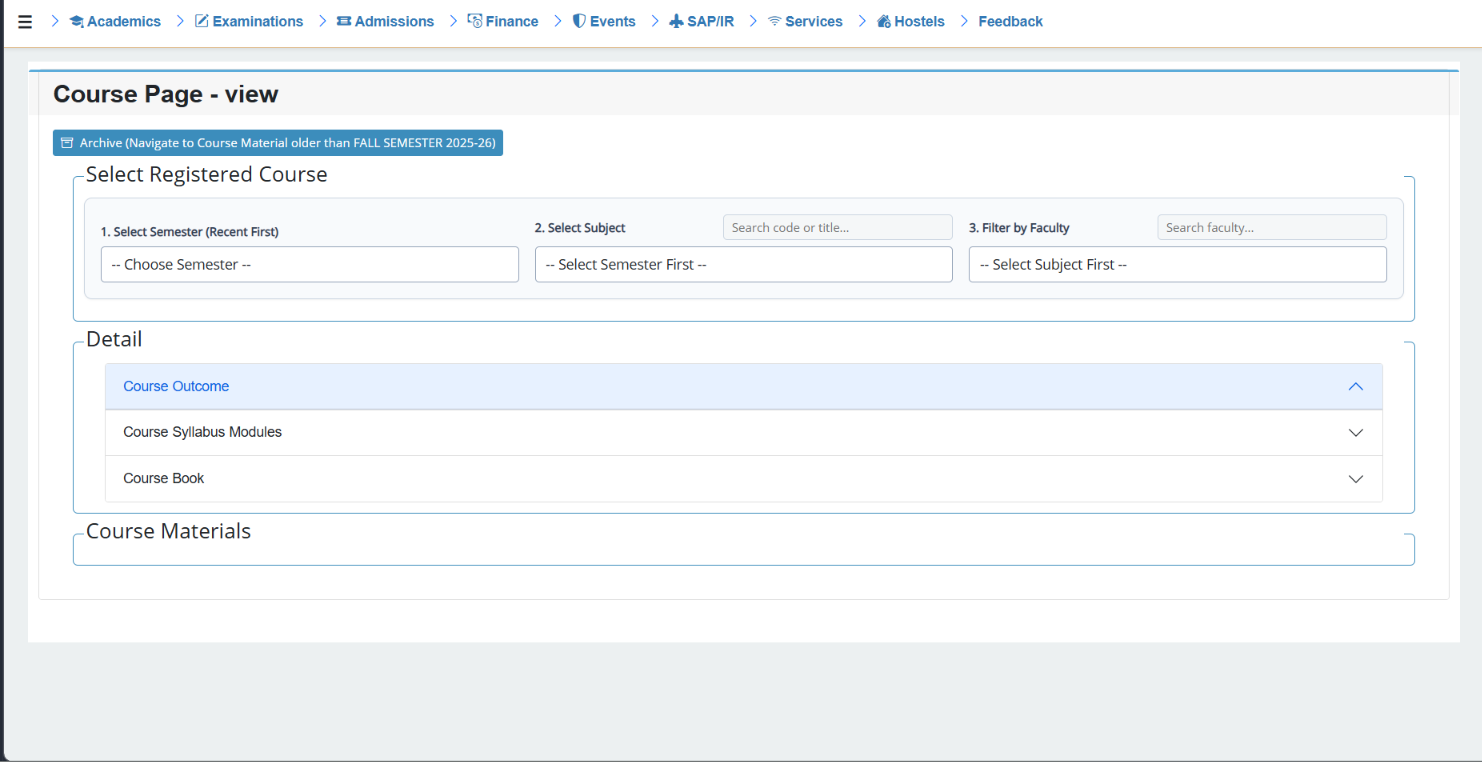
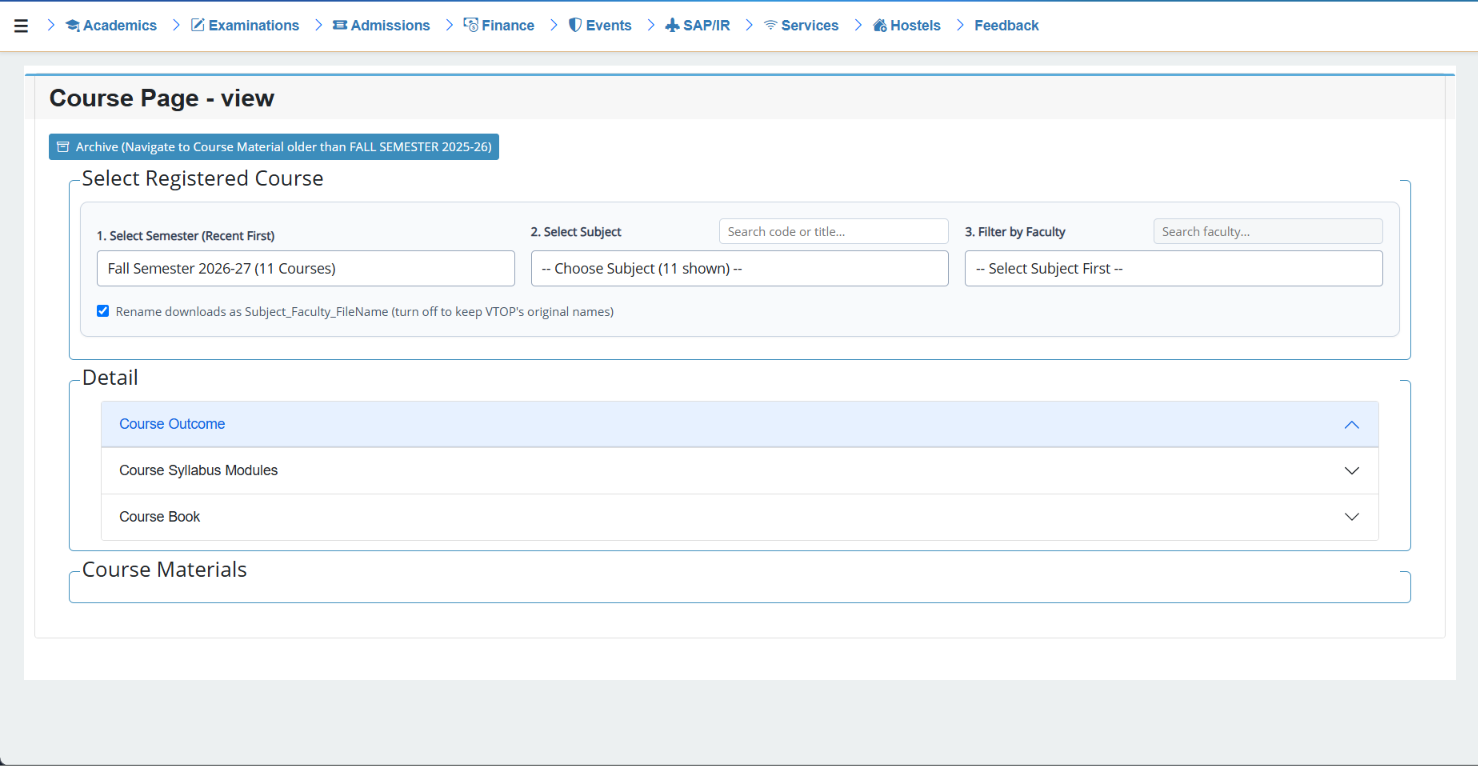
Update README

diff --git a/README.md b/README.md
@@ -63,7 +63,7 @@ FALLSEM2026-27_VL_BCSE303L_00100_TH_2026-11-02_Module-6.pdf
 With this extension the same file is saved as:
 
 ```
-Operating Systems_DHIVYAA C R_Module-6.pdf
+Operating Systems_Faculty Name_File Name.pdf
 ```
 
 That is: subject name, then faculty name, then the real file name. The semester code, course code, class number and upload date are dropped.
